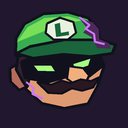
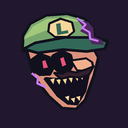
Redraw Corrupted Mr. L using Overdue phase two pose references

diff --git a/docs/battle-1.md b/docs/battle-1.md
@@ -1,6 +1,6 @@
 # Battle 1 · Dead Channel
 
-The relay has taken over Mr. L’s voice and movement. The green L cap and black mask identify Mr. L, and the violet fractures show the relay broadcasting through him. Boyfriend follows the rhythm to locate the source. The signal cuts out after the final response, leaving its source for the next battle.
+The relay has taken over Mr. L’s voice and movement. His hollow eyes and stretched silhouette take their cues from [Overdue (2)](https://marios-madness.fandom.com/wiki/Mr._L/Gallery). The violet fractures show the relay broadcasting through him. Boyfriend follows the rhythm to locate the source. The signal cuts out after the final response, leaving its source for the next battle.
 
 ## Patterns
 
@@ -17,7 +17,7 @@ The chart uses six call-and-response pairs at 120 BPM. Follow the four displayed
 ## Parent playtest
 
 - Help the player find **Dead Channel** in Freeplay and listen for its preview.
-- Watch Mr. L lean left and right, crouch low, and reach up during his call. Check that his boots stay visible and that he returns to his idle pose.
+- Watch Mr. L lean back left, crouch low with both arms out, stretch up, and throw an L gesture to the right during his call. Check that his boots stay visible and that he returns to his idle pose.
 - Ask the player what changes after the two-tone cue. Hold the final sustained notes until their tails clear.
 - Let the song end and check for the results screen.
 - If anything fails, record the symptom and the step where it happened. Crop screenshots to the game window before sharing.
